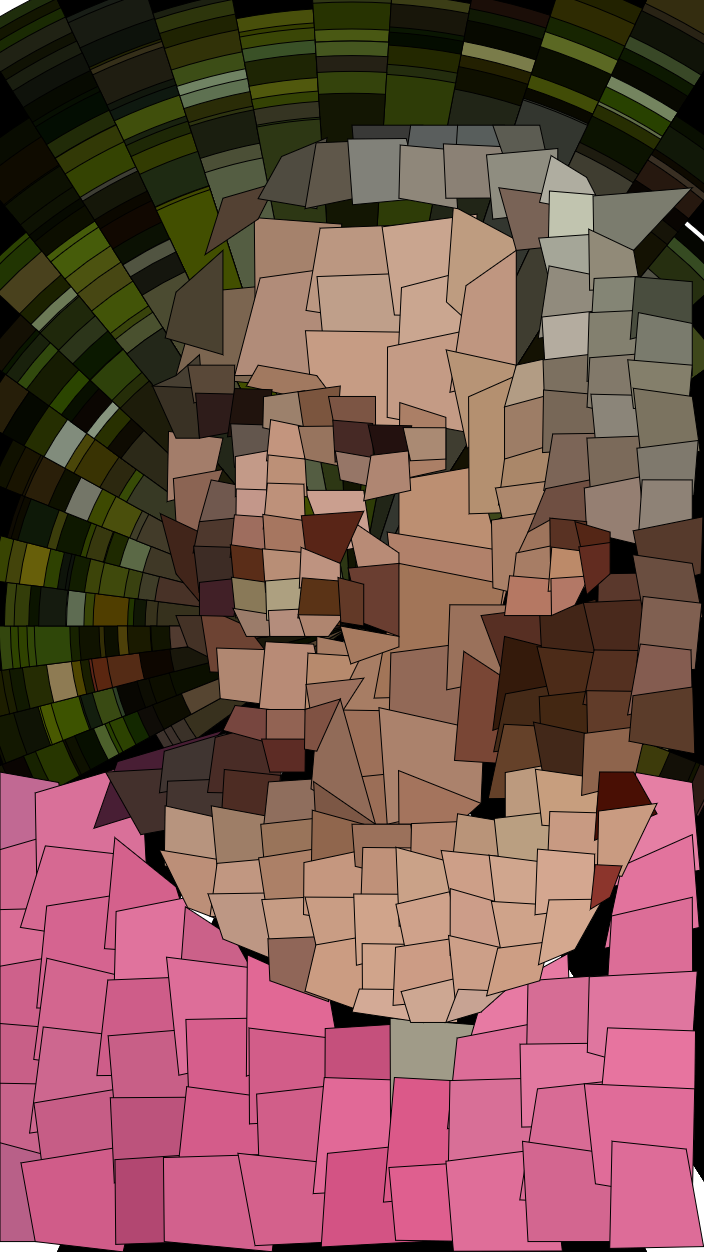
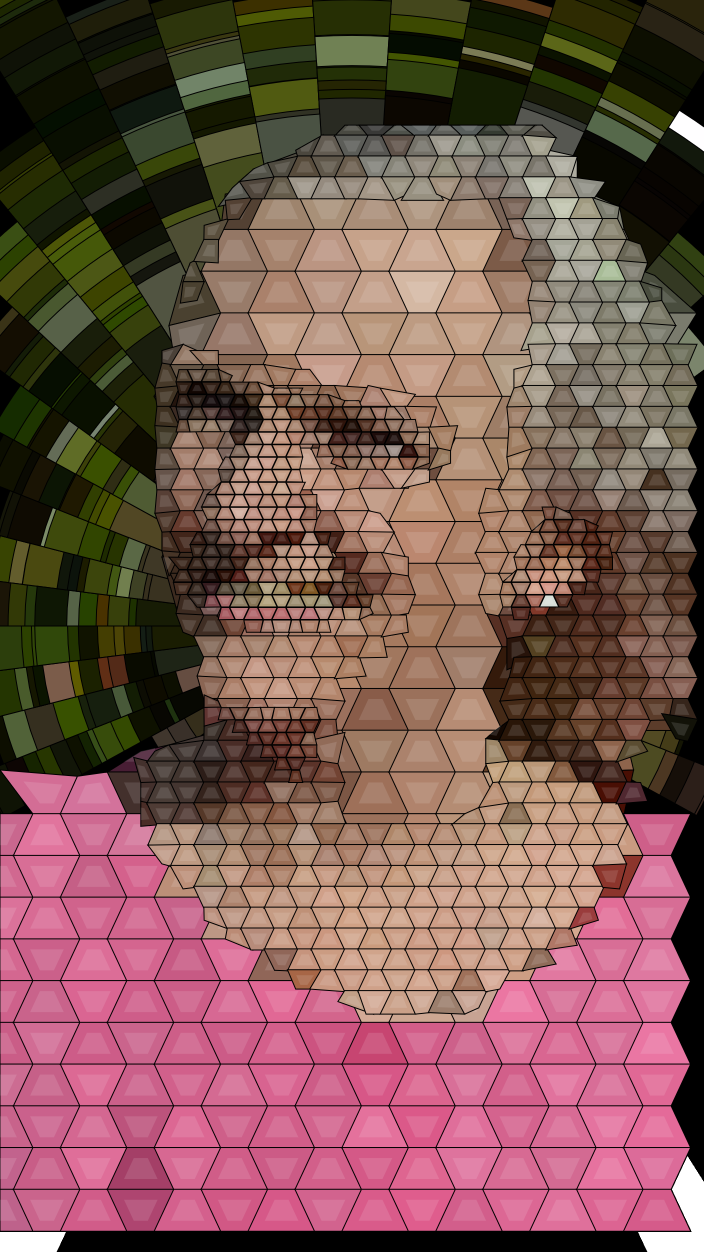
updated new code

diff --git a/sketch.js b/sketch.js
@@ -6,9 +6,10 @@ let sourceFile = "input_1.jpg";
 let maskFile   = "mask_1.png";
 let outputFile = "artwork_1.png";
 
-let colourThresh = 10;
+let colourThresh = 50;
  let edges = [];
 
+let edgeSmooth = 100;
 let chords = [];
 function preload() {
   sourceImg = loadImage(sourceFile);
@@ -24,7 +25,7 @@ function setup () {
   background(255);
   sourceImg.loadPixels();
   maskImg.loadPixels();
-  noLoop();
+  
 }
 
 function draw () {
@@ -62,11 +63,11 @@ angleMode(DEGREES);
 
 
 
-Mosaic(40, 70, 10, 20, 30, 100);
+Mosaic(40, 270, 15, 30, 30, 42);
 
-//Mosaic(140, 170, 15, 30, 20, 60);
+Mosaic(140, 270, 30, 60, 20, 22);
 
-//Mosaic(200, 260, 20, 40, 10, 40);
+Mosaic(200, 260, 50, 100, 10, 12);
   
   
   
@@ -145,7 +146,7 @@ for(let i=0;i<30;i++) {
 */
   
    edgeSet();
-   
+  //drawOutline();
 
   renderCounter = renderCounter + 1;
   if(renderCounter > 10) {
@@ -184,87 +185,127 @@ for(let i=0;i<xCount;i++) { //Medium Chunks
       let pix = sourceImg.get(x, y);
       let mask = maskImg.get(x, y);
       fill(pix);
-      if(mask[0] > alphaLow && mask[0] < alphaHigh){
+      let odd = 20;
+      let even = 40;
+      if((j % 2 == 0 && i % 2 != 0) || (j % 2 != 0 && i % 2 == 0)){
+        print("odd");
+        odd = 3;
+        even = 1.25;
+   
+      } else {
+        print("even");
+        odd = 1.25;
+        even = 3;
+     
+      }
+        if(mask[0] > alphaLow && mask[0] < alphaHigh){
+          let x1 = constrain(x-quadSize/odd , 0, width);
+          let y1 = constrain(y-quadSize/2, 0, height);
 
-        //let x1 = constrain(x-quadSize/2+random(0, ranQuad), 0, width);
-        //let y1 = constrain(y-quadSize/2+random(0, ranQuad), 0, height);
-
-        let x1 = constrain(x-quadSize/2, 0, width);
-        let y1 = constrain(y-quadSize/2, 0, height);
-
-        if(maskImg.get(x1, y1)[0] < alphaLow || maskImg.get(x1, y1)[0] > alphaHigh){
-          closestEdgePoint(x1, y1);
-          x1 = chords[0];
-          y1 = chords[1];
-        }
-
-        //let x2 = constrain(x+quadSize/2+random(0, ranQuad), 0, width);
-        //let y2 = constrain(y-quadSize/2+random(0, ranQuad), 0, height);
-
-        let x2 = constrain(x+quadSize/2, 0, width);
-        let y2 = constrain(y-quadSize/2, 0, height);
-
-        if(maskImg.get(x2, y2)[0]  < alphaLow || maskImg.get(x2, y2)[0]  > alphaHigh){
-         // closestEdgePoint(x2, y2);
-        //  x2 = chords[0];
-         // y2 = chords[1];
-        }
-
-        //let x3 = constrain(x+quadSize/2+random(0, ranQuad), 0, width);
-        //let y3 = constrain(y+quadSize/2+random(0, ranQuad), 0, height);
-
-        let x3 = constrain(x+quadSize/2, 0, width);
-        let y3 = constrain(y+quadSize/2, 0, height);
-
-        if(maskImg.get(x3, y3)[0]  < alphaLow || maskImg.get(x3, y3)[0]  > alphaHigh){
-         // closestEdgePoint(x3, y3);
-         // x3 = chords[0];
-         // y3 = chords[1];
-        }
-
-        //let x4 = constrain(x-quadSize/2+random(0, ranQuad), 0, width);
-        //let y4 = constrain(y+quadSize/2+random(0, ranQuad), 0, height);
+          if(maskImg.get(x1, y1)[0] < alphaLow || maskImg.get(x1, y1)[0] > alphaHigh){
+            closestEdgePoint(x1, y1, qSize);
+            x1 = chords[0];
+            y1 = chords[1];
+          }
 
 
-        let x4 = constrain(x-quadSize/2, 0, width);
-        let y4 = constrain(y+quadSize/2, 0, height);
+          let x2 = constrain(x+quadSize/odd, 0, width);
+          let y2 = constrain(y-quadSize/2, 0, height);
 
-       if(maskImg.get(x4, y4)[0] < alphaLow || maskImg.get(x4, y4)[0] > alphaHigh){
-         // closestEdgePoint(x4, y4);
-         // x4 = chords[0];
-         // y4 = chords[1];
-        }
-
-
+          if(maskImg.get(x2, y2)[0]  < alphaLow || maskImg.get(x2, y2)[0]  > alphaHigh){
+           closestEdgePoint(x2, y2, qSize);
+            x2 = chords[0];
+            y2 = chords[1];
+          }
 
 
-   quad(x1, y1, x2, y2, x3, y3, x4,y4);
+          let x3 = constrain(x+quadSize/even, 0, width);
+          let y3 = constrain(y+quadSize/2, 0, height);
+
+          if(maskImg.get(x3, y3)[0]  < alphaLow || maskImg.get(x3, y3)[0]  > alphaHigh){
+            closestEdgePoint(x3, y3, qSize);
+            x3 = chords[0];
+            y3 = chords[1];
+          }
+
+
+          let x4 = constrain(x-quadSize/even, 0, width);
+          let y4 = constrain(y+quadSize/2, 0, height);
+
+         if(maskImg.get(x4, y4)[0] < alphaLow || maskImg.get(x4, y4)[0] > alphaHigh){
+           closestEdgePoint(x4, y4, qSize);
+            x4 = chords[0];
+            y4 = chords[1];
+          }
+          /*
+          beginShape(TRIANGLE_FAN);
+          vertex(x1, y1);
+          vertex(x2, y2);
+          vertex(x3, y3);
+          vertex(x4, y4);
+          endShape();
+          */
+          quad(x1, y1, x2, y2, x3, y3, x4, y4);
+
+          push();
+          scale(0.5, 0.5);
+          translate(x, y);
+          noStroke();
+          fill(255, 255, 255, 30);
+          quad(x1, y1, x2, y2, x3, y3, x4, y4);
+
+          pop();
+        } 
+
+       
+
+      
+
+
+
+ 
       //rect(x, y, 25, 25);
     }
     }
   }
 
+function drawOutline() {
+   for(let i = 0; i < edgeSmooth; i++){
+      for(let j = 0; j < 2*edgeSmooth; j++){
+      let x = i*(sourceImg.width/(edgeSmooth));
+      let y = j*(sourceImg.height/(2*edgeSmooth)); 
 
+      let mask = maskImg.get(x, y);  
+
+      if((maskImg.get(i*(sourceImg.width/(edgeSmooth)), (j-1)*(sourceImg.height/(2*edgeSmooth))))[0] != mask[0]
+        || (maskImg.get((i-1)*(sourceImg.width/edgeSmooth), j*(sourceImg.height/(2*edgeSmooth))))[0] != mask[0]
+        || j == 0 || i == 0 || j == 2*edgeSmooth-1|| i == edgeSmooth -1 ){
+          fill(0);
+          //ellipse(x, y, 10, 10);
+     // print("x :" + i + " y : " + j + " , mask: " + mask[0] + " maskPrev : " + maskSave);
+      }
+    }
+  }
 }
+
 function edgeSet(){
     //lets try something probably very stupid
-   
-    for(let i = 0; i < 60; i++){
+
+    for(let i = 0; i < edgeSmooth; i++){
       edges[i] = [];
-      for(let j = 0; j < 120; j++){
-      let x = i*(sourceImg.width/60);
-      let y = j*(sourceImg.height/120); 
+      for(let j = 0; j < 2*edgeSmooth; j++){
+      let x = i*(sourceImg.width/(edgeSmooth));
+      let y = j*(sourceImg.height/(2*edgeSmooth)); 
       let mask = maskImg.get(x, y);
 
       
-      if((maskImg.get(i*(sourceImg.width/60), (j-1)*(sourceImg.height/120)))[0] != mask[0]
-        || (maskImg.get((i-1)*(sourceImg.width/60), j*(sourceImg.height/120)))[0] != mask[0]
-        || j == 0 || i == 0 || j == 119 || i == 59 ){
-
+      if((maskImg.get(i*(sourceImg.width/(edgeSmooth)), (j-1)*(sourceImg.height/(2*edgeSmooth))))[0] != mask[0]
+        || (maskImg.get((i-1)*(sourceImg.width/(edgeSmooth)), j*(sourceImg.height/(2*edgeSmooth))))[0] != mask[0]
+        || j == 0 || i == 0 || j == 2*edgeSmooth - 1 || i == edgeSmooth -1){
 
       edges[i][j] = true;
       fill(150);
-      ellipse(x, y, 10, 10);
+      //ellipse(x, y, 5, 5);
      // print("x :" + i + " y : " + j + " , mask: " + mask[0] + " maskPrev : " + maskSave);
       } else {
         edges[i][j] = false;
@@ -274,24 +315,38 @@ function edgeSet(){
       }
     }
 
-   
+   endShape();
 }
 
-function closestEdgePoint(x , y){
+function closestEdgePoint(x , y, size){
  let distance = 999;
 
  let x1;
  let y1;
  print(x);
 
-for(let i = 0; i < 60; i++){
-  for(let j = 0; j < 120; j++){
+let sizeScale = (size*2)/sourceImg.width * edgeSmooth;
+let posXscale = x/sourceImg.width * edgeSmooth;
+let posYscale = y/sourceImg.height * (2*edgeSmooth);
+
+ print("SizeScale : " + sizeScale + " posXscale : " + posXscale);
+  let testI1 = round(constrain(posXscale - (sizeScale/2), 0, posXscale));
+  let testI2 = round(constrain(posXscale + (sizeScale/2), posXscale, edgeSmooth));
+ print("Testi1 ; " + testI1 + " testI2 : " + testI2);
+
+   let testJ1 = round(constrain(posYscale - (sizeScale/2), 0, posYscale));
+  let testJ2 = round(constrain(posYscale + (sizeScale/2), posYscale, 2*edgeSmooth));
+
+
+for(let i = testI1; i < testI2; i++){
+  for(let j = testJ1; j < testJ2; j++){
     print(dist(0, 0, width, height));
+    //if(edges[i][j] == true){
     if(edges[i][j] == true){
-    if(dist(x, y, i*(sourceImg.width/60), j*(sourceImg.height/120)) < distance ){
-      distance = dist(x, y, i*(sourceImg.width/60), j*(sourceImg.height/120));
-      x1 = i*(sourceImg.width/60);
-      y1 = j*(sourceImg.height/120);
+    if(dist(x, y, i*(sourceImg.width/edgeSmooth), j*(sourceImg.height/(2*edgeSmooth))) < distance ){
+      distance = dist(x, y, i*(sourceImg.width/edgeSmooth), j*(sourceImg.height/(2*edgeSmooth)));
+      x1 = i*(sourceImg.width/edgeSmooth);
+      y1 = j*(sourceImg.height/(2*edgeSmooth));
     }
   }
     /*

diff --git a/README.md b/README.md
@@ -1,15 +1,7 @@
 ## Creative Coding 2: Custom Pixel
 
-Ive decided to use my mum as the subject for my project, shes the most meaningful thing to me that i can photograph. 
+ Ive reworked my code quite a bit to make it much smoother when running. Previously i had been checking against every single edge pixel that was held in the array of edge points. This meant for every fractured piece that was on an edge, about 7200 loops were running when checking for the correct edge point. I refined this by adding an extra parameter, one that includes the size of the piece. This size is then used to only check through edge pieces that are in the direct area around the piece, so far fewer loops are needed for the calculations. 
 
-I'm basing my aesthetic on stained glass windows, and i'd like to create a final output that translates my photos into something resembling a stained glass. 
+ Ive also adjusted to script to remove the randomization. I liked the fractured appearence however it looked too messy. Ive instead added an odd/even variation to the tiles. The are bigger at top when even and bigger at the bottom when odd, this creates a cleaner mosaic tile appereance. 
 
-Ive started experimenting with different ways i can achieve this. The first thing i did was create a spherical grid of the background, masked as black in the mask. This renders out rings that are sliced up, similarly to how stained glass backgrounds are depicted. It was quite challenging to pick the colours for each segment of the rings, as it required using some trigonometry to find the exact pixel center of each segment. 
-
- I then started experimenting with different ways i could make the subject fractured into different shapes, the way stained glass is cut up into shapes. I scripted it so that it cycled through pixels in areas not masked as background, and then drawing a quad shape of this colour. The quad has randomized points that create varied shapes, without a consistent pattern. 
-
- I modified the mask to each area, as some parts of the photos will need smaller more detailed fragments and others will be larger. Each tone of greyscale corosponds to a size/distribution of the fragments. 
-
- I encountered a problem fairly quickly, that the tiles still needed to have a clear and defined outline. Using purely randomized quads meant that the subject was often difficult to interpret visually. I implimented a couple of new functions to try resolve this issue. The first is a function that creates an outline of each masked area, this outline is then put in a 2d array of all the pixels, with true/false applied to whether or not a position is an outline. When the quads randomized varaibles are first calculated, it then runs a check to see if the mask colour at the point of each quad is corrosponding alpha tone of the tiles being drawn. If it isnt, then that means it has gone over the lines of the mask, and its position is pulled to the closest outline pixel. 
-
- While this resolves the problem somewhat, its incredibly slow to run the program like this. There are still issues of the overall image being too fractured and i'd like to try refine it into a cleaner image. 
+ Im still trying to figure out how to draw the outlines, as the piece needs certain strong outlines. I might see if i can experiment with multiple masks, as its going to be very difficult to code it naturally. 
